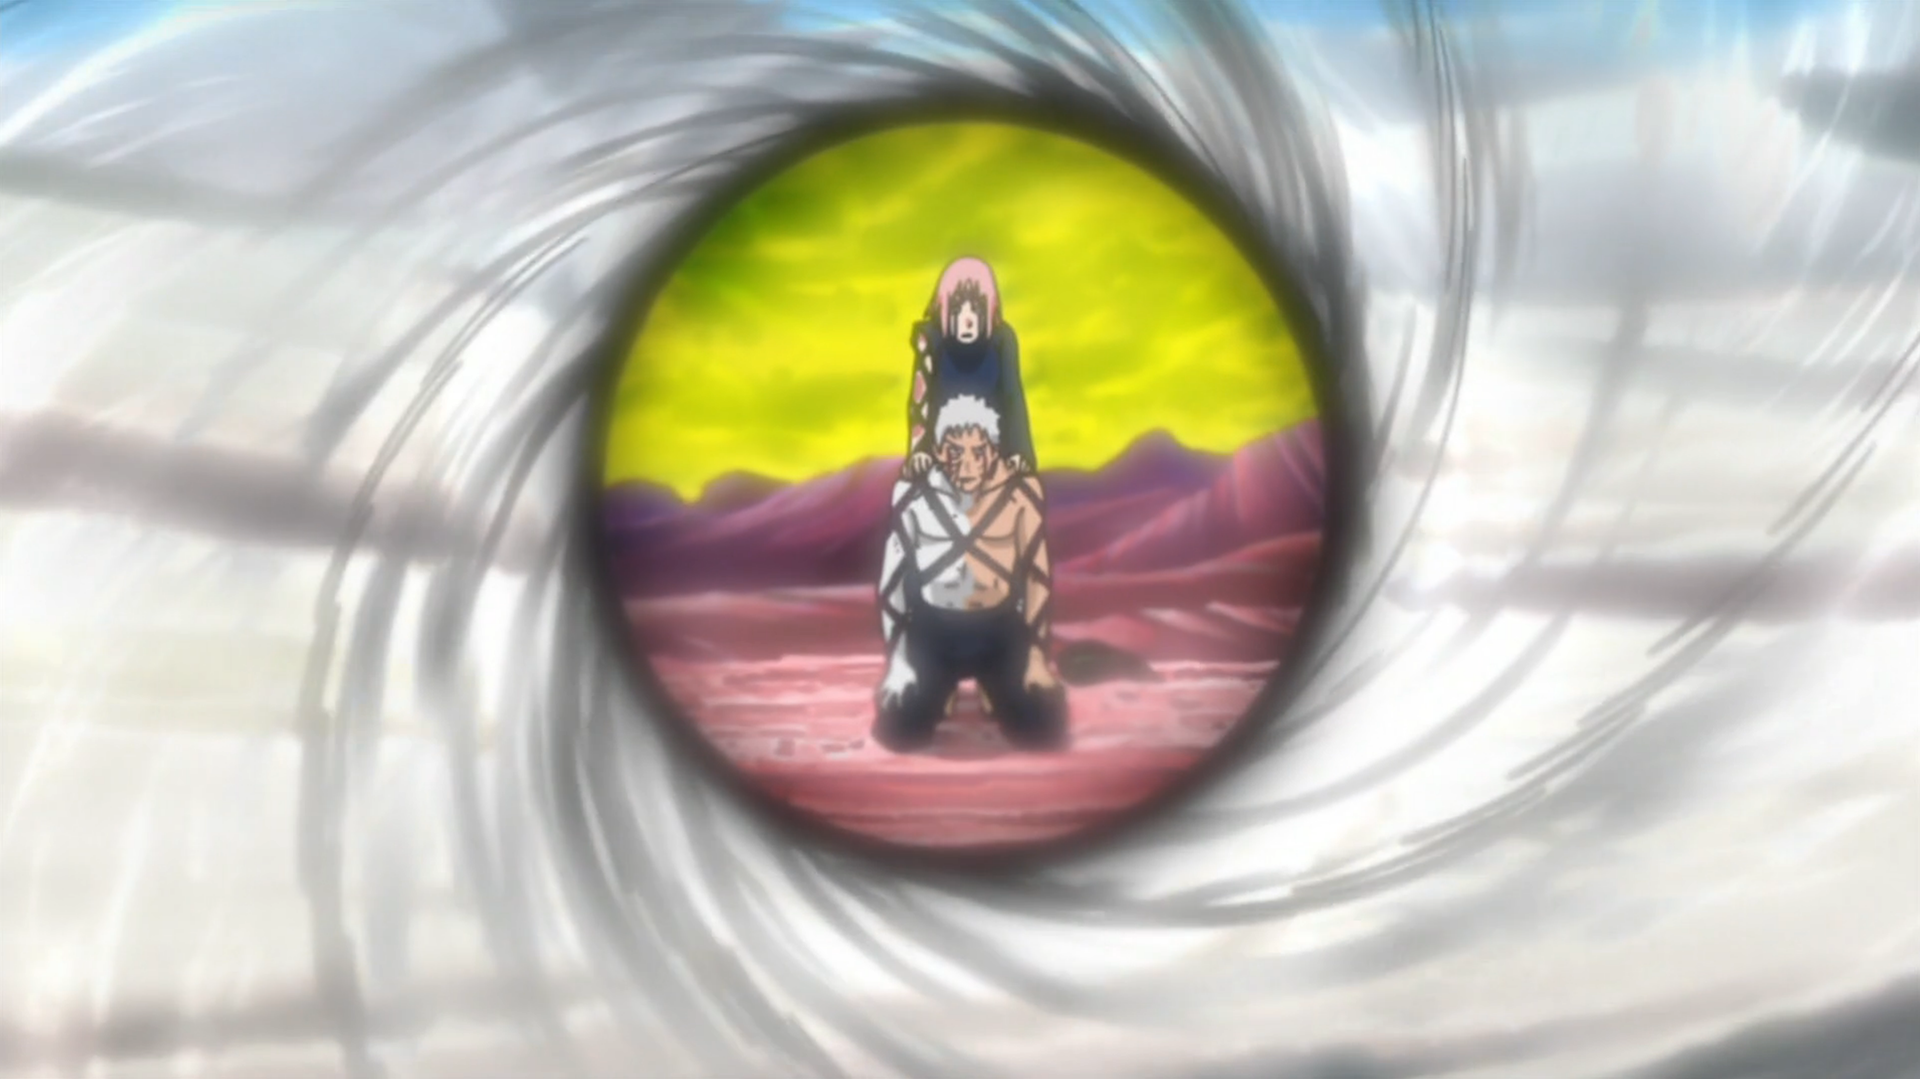
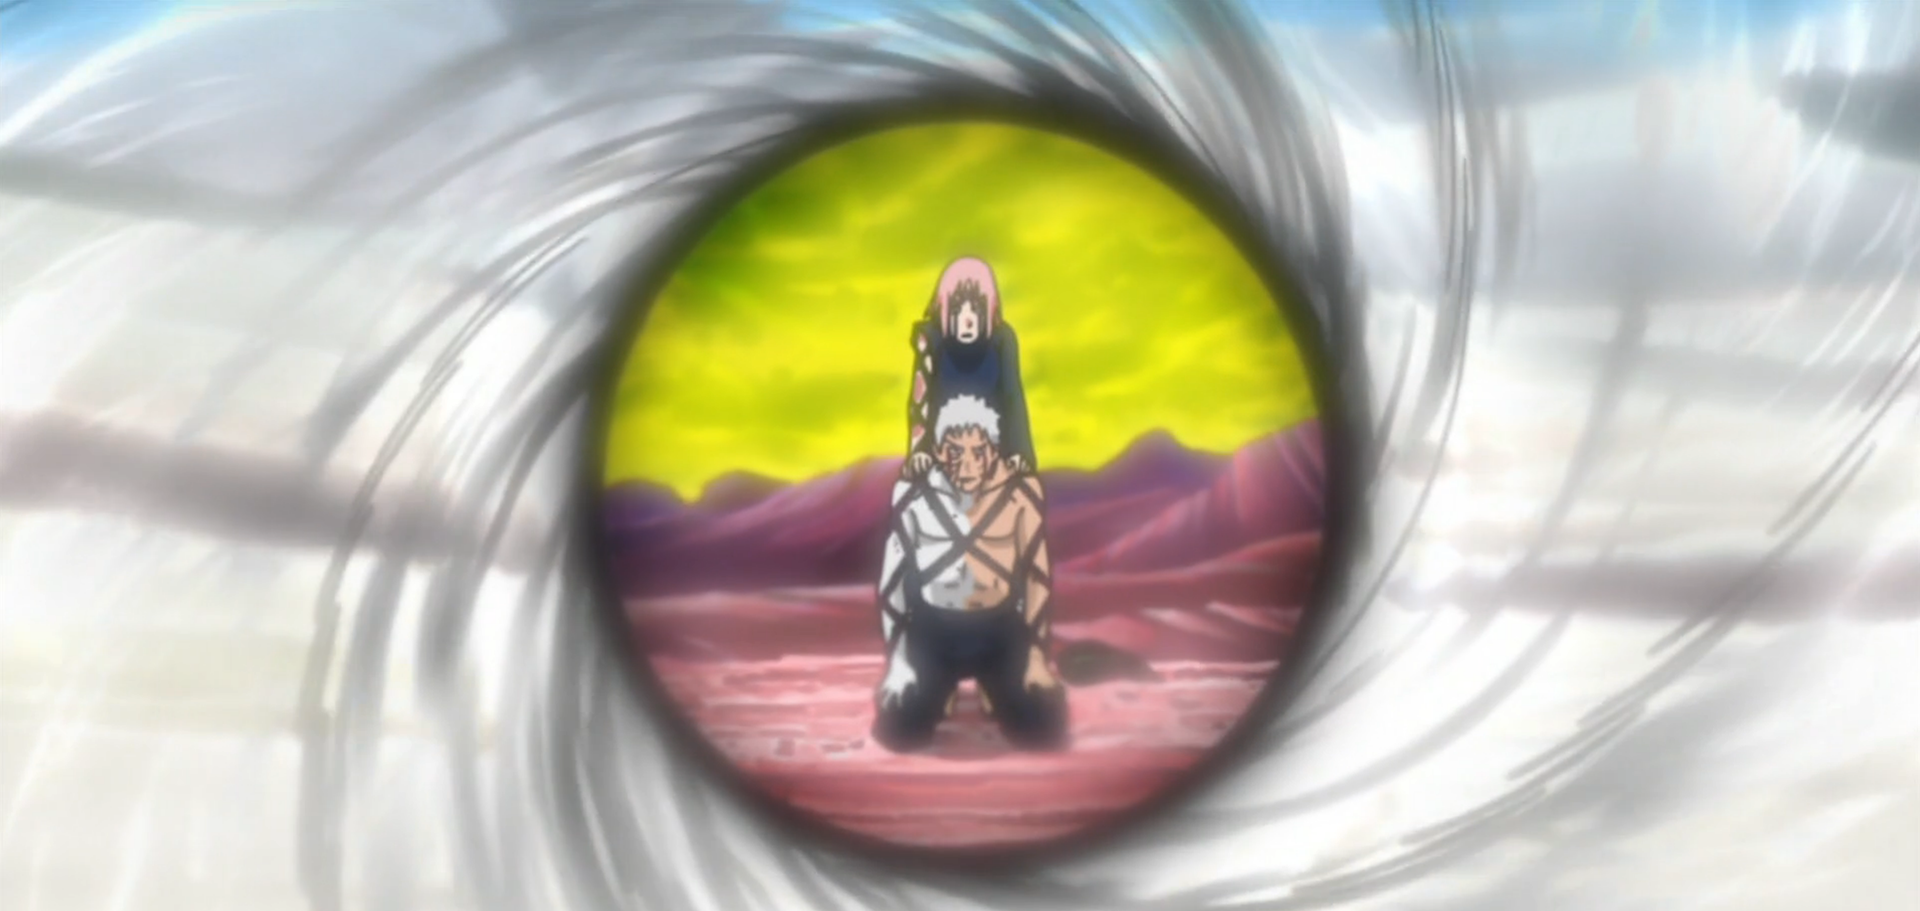
jnaruto update blog

diff --git a/_posts/2018-05-05-Xcode命令行工具管理.md b/_posts/2018-05-05-Xcode命令行工具管理.md
@@ -4,7 +4,7 @@ title:      Xcode命令行工具管理
 subtitle:   如何切换Xcode命令行工具
 date:       2018-05-05
 author:     JNaruto
-header-img: img/post-bg-kuaidi.jpg
+header-img: img/rescuing_sasuke.jpg
 catalog: true
 tags:
     - Xcode
